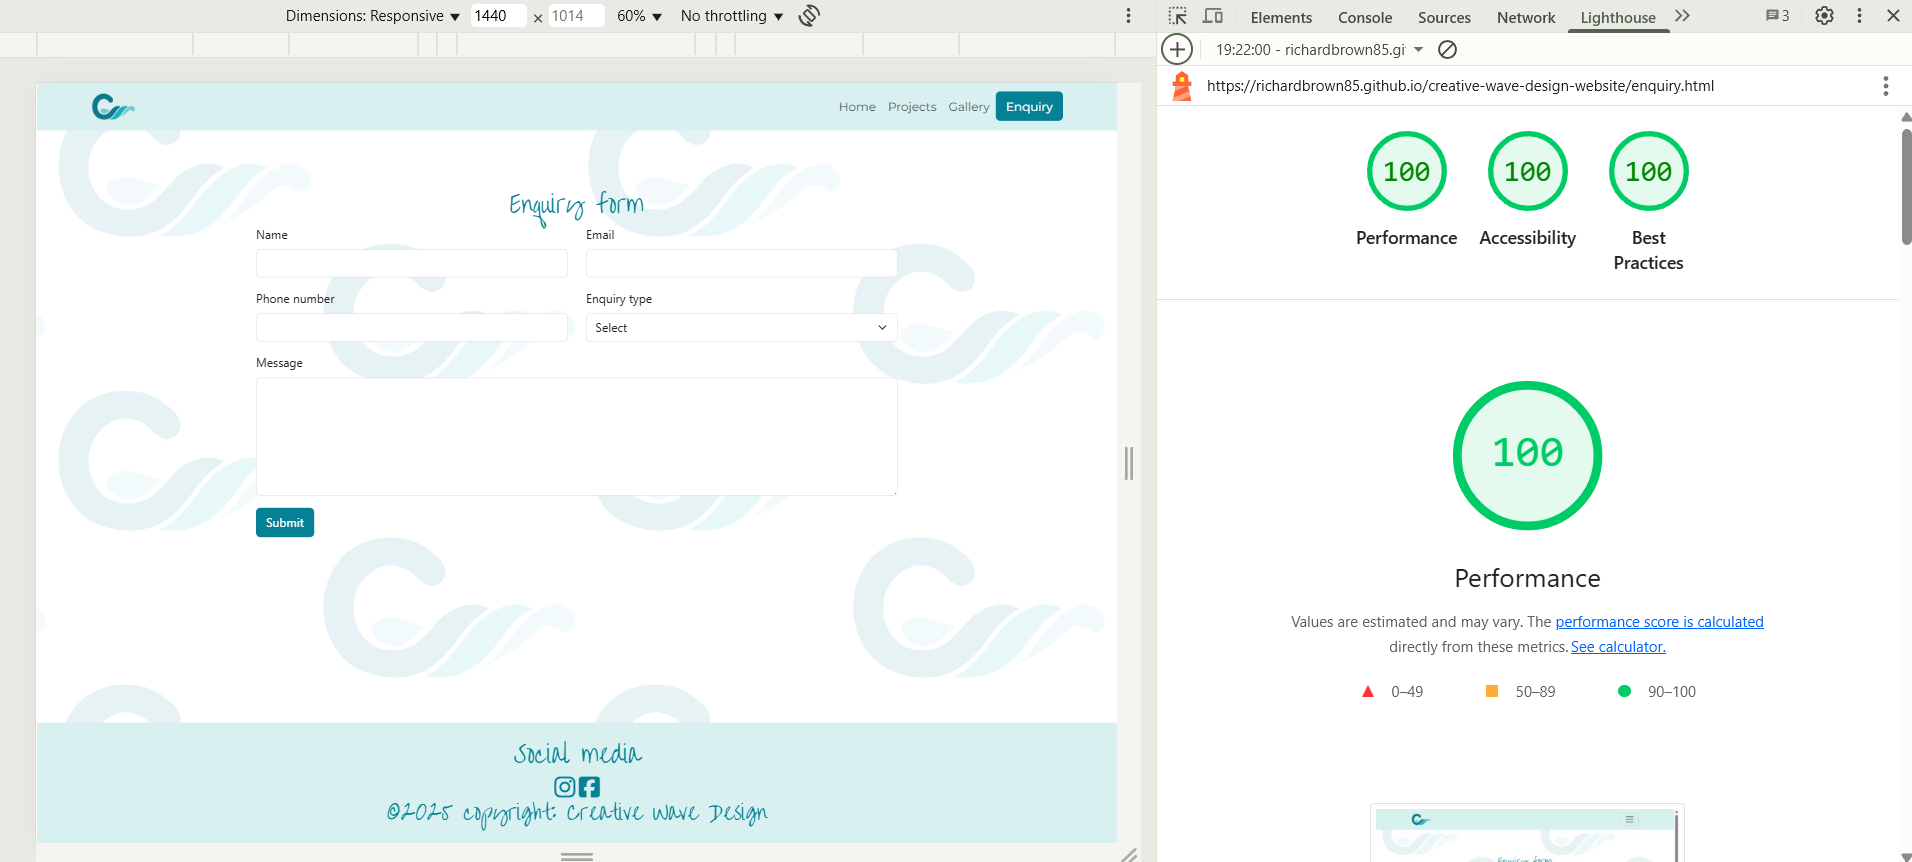
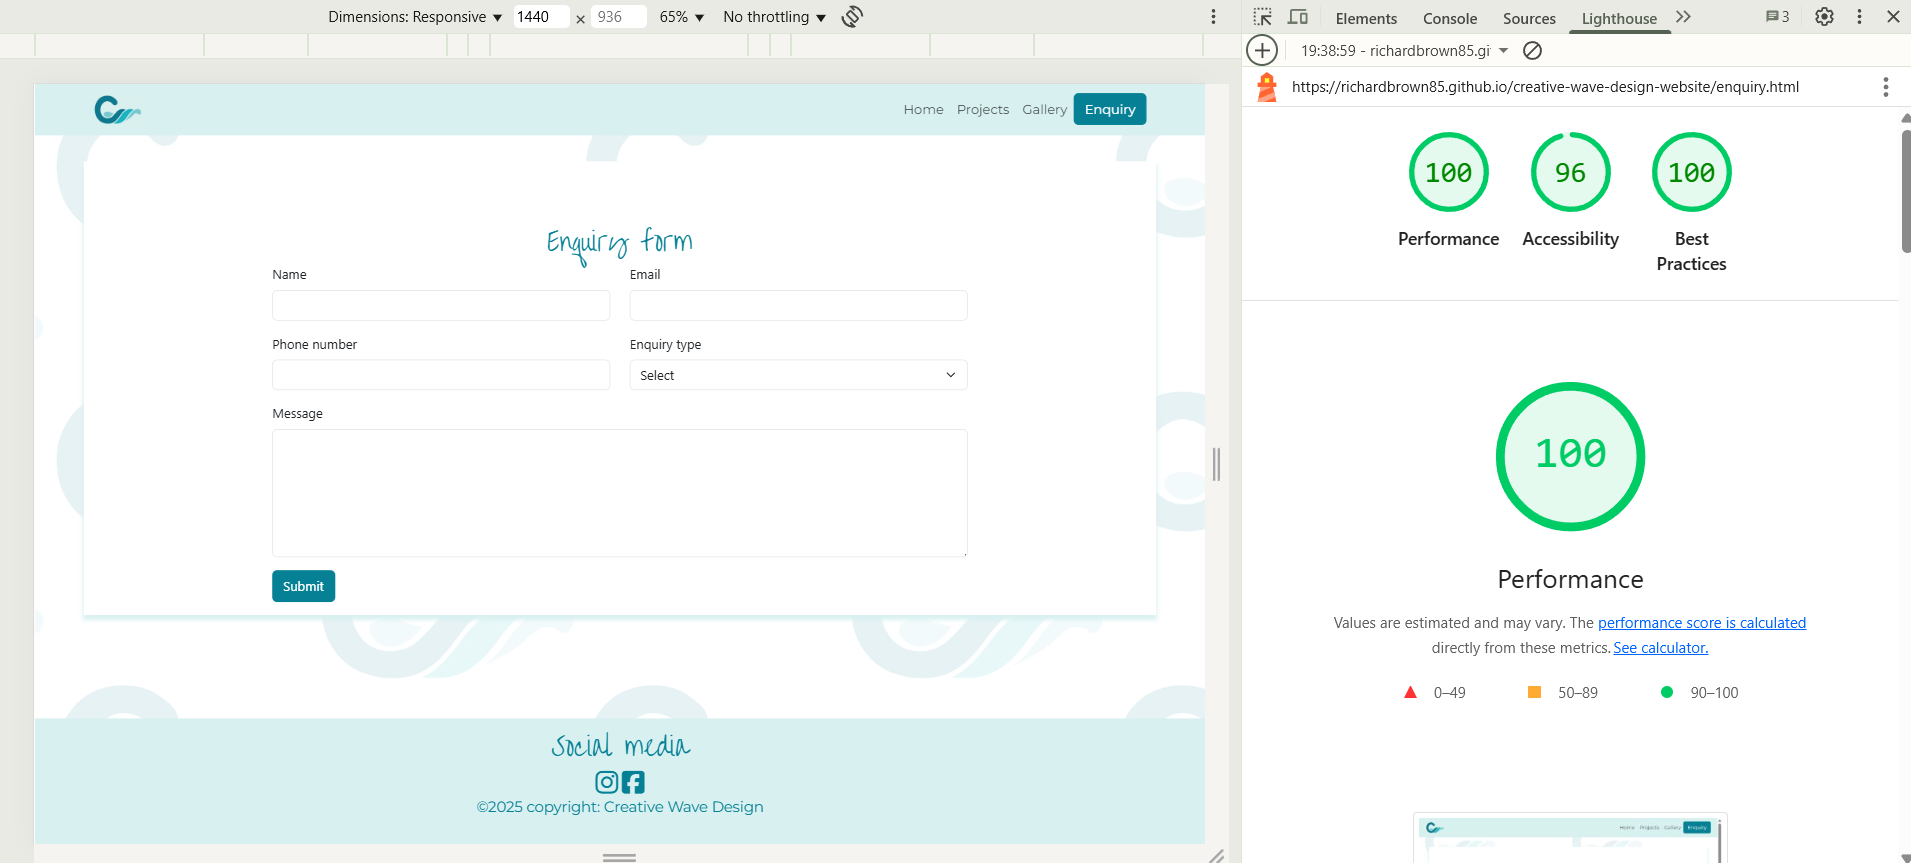
updated README images of Lighthouse testing due to changes to index.html and enquiry.html - box-shadow.

diff --git a/index.html b/index.html
@@ -115,7 +115,7 @@
                 </div>
             </div>
          </div>
-         <div id="testimonials" class="container section">
+         <div id="testimonial" class="container section">
             <div class="row justify-content-center">
                 <div class="col-md-4">
                     <div class="card border-0">

diff --git a/assets/css/style.css b/assets/css/style.css
@@ -85,6 +85,12 @@ p {
     box-shadow: 0 5px 5px 1px var(--secondary-color);
 }
 
+#testimonial .card-body {
+    border-color: white;
+    background-color: white;
+    box-shadow: 0 5px 5px 1px var(--secondary-color);
+}
+
 /* Enquiry main/form */
 
 #enquiry-main {

diff --git a/README.md b/README.md
@@ -228,20 +228,19 @@ The behaviour of the site was to be excepted. The site responded accordingly fro
 
 #### Homepage (index.html) 
 
-![W3C Validation index html](<README images/HTML-validation-on-index.html-error.png>)
-![W3C Validation index html](<README images/HTML-validation-on-index.html-error-amended.png>)
-
-Error was amended by adding a closing element div so there wasn't an open element this means the footer tag could close.
-After seeing this error i debugged the other pages for the error and corrected them.
-
 #### Projects page (projects.html)
+
+#### Gallery page (gallery.html)
+
+#### Enquiry page (enquiry.html)
+
+#### Success page (success.html)
 
 
 ### W3C CSS Validation
 
 #### Style.css (Custom CSS)
 
-![W3C CSS Validation style.css](<README images/W3C-CSS-validation-no-error-found.png>)
 
 ## Deployment
 
